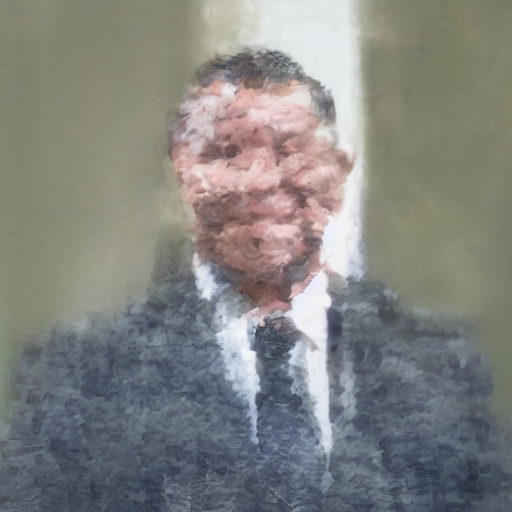
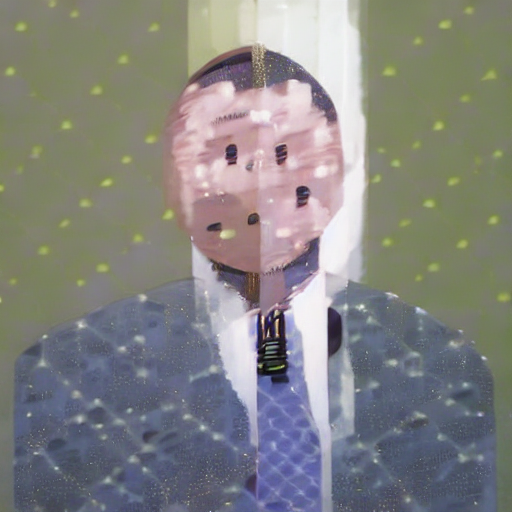
inference uncond 차원 조정 (guidance scale 활용 가능)

diff --git a/inference/img2img_style.py b/inference/img2img_style.py
@@ -1,4 +1,5 @@
-import argparse, os
+import argparse, os, random
+import numpy as np
 from PIL import Image
 from omegaconf import OmegaConf
 
@@ -205,8 +206,9 @@ def main(args):
 
     # self-attention network (after clip vit encoder)
     style_encoder = StyleSelfAttention(dim=768, nhead=8, nlayers=2)
-    sd_selfattn = load_file(args.selfattn_model_path, device="cpu")
-    load_res = style_encoder.load_state_dict(sd_selfattn, strict=True)
+    if args.selfattn_model_path:
+        sd_selfattn = load_file(args.selfattn_model_path, device="cpu")
+        style_encoder.load_state_dict(sd_selfattn, strict=True)
     style_encoder = style_encoder.to(device).eval()
     
     style_tokens = style_encoder(tokens)
@@ -217,12 +219,25 @@ def main(args):
         return x if x.shape[0] == B else x.expand(B, -1, -1)
 
     B = start_latents.shape[0]
-    uncond_text = match_batch(uncond_text.to(device), B)
+    uncond_text = uncond_text.expand(B, 77, -1)
     style_tokens = match_batch(style_tokens.to(device, dtype=uncond_text.dtype), B)
+
+    print("********cond shape:", style_tokens.shape, "uncond shape:", uncond_text.shape)
 
     num_layers = 25 # number of SD-1.x UNet cross-attention layer
     cond   = {"c_crossattn": [args.sty_alpha * style_tokens]  * num_layers}
     uncond = {"c_crossattn": [uncond_text] * num_layers}
+
+    def _extract_tensor_from_cond(c):
+        if isinstance(c, dict):
+            c2 = c.get("c_crossattn", c)
+            if isinstance(c2, list):
+                return c2[0]
+            return c2
+        return c
+
+    cond = _extract_tensor_from_cond(cond)
+    uncond = _extract_tensor_from_cond(uncond)
     # ********************************
     
     # 3) DDIM Sampling
@@ -233,7 +248,7 @@ def main(args):
         start_step=start_step,
         cond=cond,
         uncond=uncond,
-        guidance_scale=1.0, # fix
+        guidance_scale=args.guidance_scale,
         ddim_steps=args.ddim_steps,
         ddim_eta=args.ddim_eta,
     )
@@ -251,11 +266,19 @@ def main(args):
 
 
 if __name__ == "__main__":
+    SEED = 1234
+    os.environ['PYTHONHASHSEED'] = str(SEED)
+    random.seed(SEED)
+    np.random.seed(SEED)
+    torch.manual_seed(SEED)
+    if torch.cuda.is_available():
+        torch.cuda.manual_seed_all(SEED)
+
     parser = argparse.ArgumentParser()
 
     parser.add_argument("--ldm_config_path", type=str, default="models/ldm/stable-diffusion-v1-5/v1-inference.yaml")
     parser.add_argument("--ldm_model_path", type=str, default="models/ldm/stable-diffusion-v1-5/v1-5-pruned.safetensors")
-    parser.add_argument("--selfattn_model_path", type=str, default="models/attention/style-encoder/style_encoder_1000.safetensors")
+    parser.add_argument("--selfattn_model_path", type=str, default="models/attention/style-encoder/style_encoder_5000.safetensors")
     
     parser.add_argument("--cnt_img", type=str, default="images/inputs/cnt/cnt_1.png")
     parser.add_argument("--sty_img", type=str, default="images/inputs/sty/sty_1.png")
@@ -263,6 +286,7 @@ if __name__ == "__main__":
     parser.add_argument("--output_img", type=str, default="images/outputs/img2img_style/stylized.png")
     parser.add_argument("--prompt", type=str, default="")
     parser.add_argument("--negative_prompt", type=str, default="")
+    parser.add_argument("--guidance_scale", type=float, default=3)
     parser.add_argument("--strength", type=float, default=0.2)
     parser.add_argument("--ddim_steps", type=int, default=100)
     parser.add_argument("--ddim_eta", type=float, default=0.0)
@@ -274,8 +298,8 @@ if __name__ == "__main__":
 """
 CUDA_VISIBLE_DEVICES=1 python inference/img2img_style.py \
   --cnt_img images/inputs/cnt/cnt_1.png \
-  --sty_img images/inputs/sty/sty_4.png \
-  --output_img images/outputs/img2img_style/stylized_4.png \
+  --sty_img images/inputs/cnt/cnt_1.png \
+  --output_img images/outputs/img2img_style/reconstruct_test.png \
   --strength 0.4 \
   --ddim_steps 100
 """
